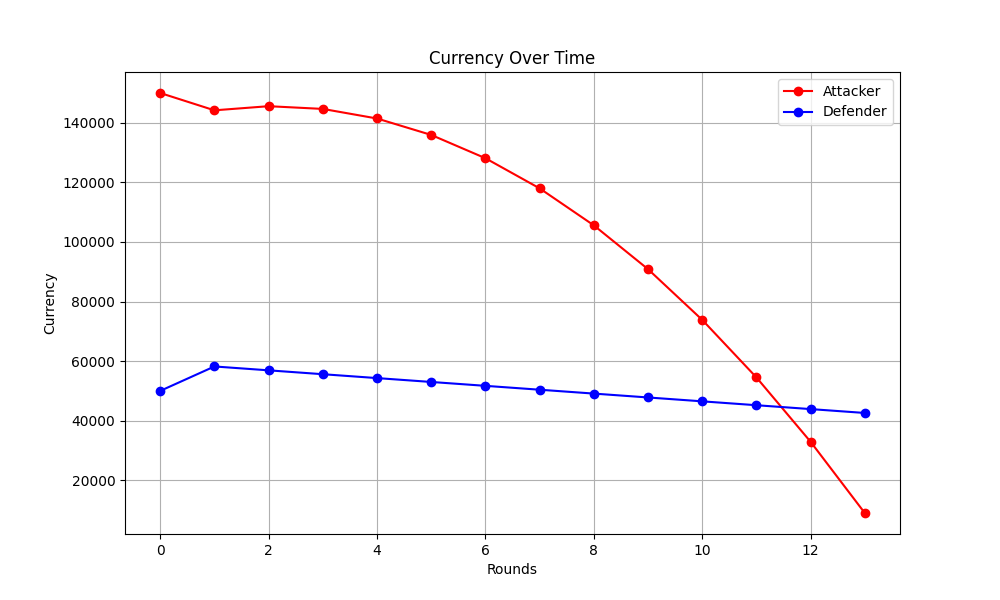
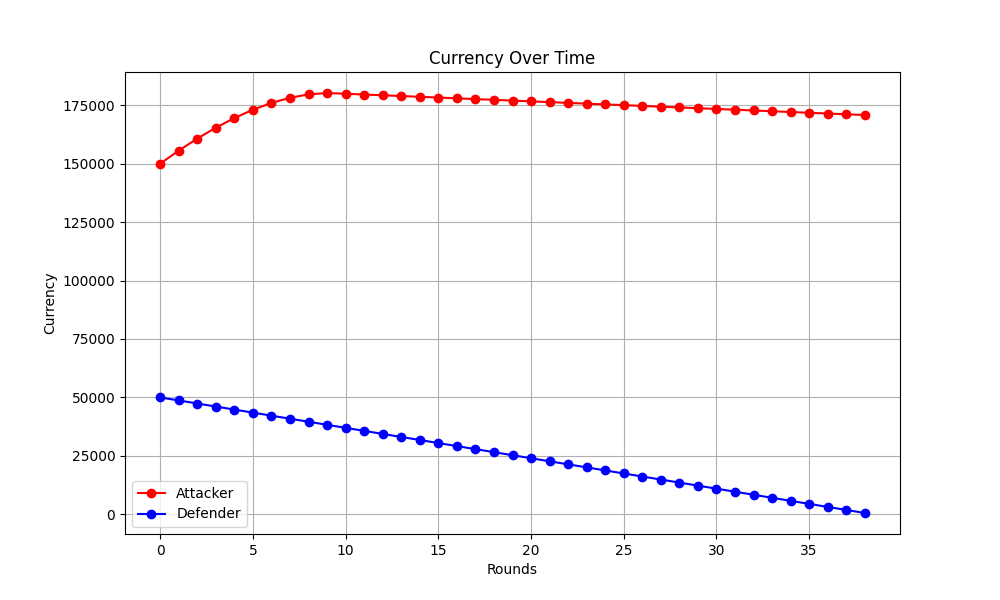
added energy to attacker class and predict_revenue to balance the odds more..

diff --git a/game.py b/game.py
@@ -25,9 +25,6 @@ class Game(Attacker, Defender, Shop):
         self.data_firewall_type = []
         self.rounds = 0
 
-        
-
-
     def __str__(self): 
         return "Game "+str(self.attacker.currency)+" "+str(self.defender.currency)+" "+str(self.rounds)+" "+str(self.server_yield)+" "+str(self.good_transmission_load)
 
@@ -91,7 +88,9 @@ class Game(Attacker, Defender, Shop):
             print("Round Start Defender Currency", self.defender.currency)
             print("-----------------------")
         
-        attacker_profit = min(self.defender.predict_revenue(), self.attacker.predict_revenue(self.defender.firewall_type)) - self.attacker.predict_expenses(self.shop)
+        # incorporate good traffic: only a fraction of bandwidth used for intrusion
+        intrusion_traffic = self.attacker.predict_revenue(self.defender.firewall_type) * (1 - self.good_traffic)
+        attacker_profit = min(self.defender.predict_revenue(), intrusion_traffic) - self.attacker.predict_expenses(self.shop)
         defender_profit = max(self.defender.predict_revenue() - self.attacker.predict_revenue(self.defender.firewall_type), 0) - self.defender.predict_expenses(self.shop)
         
         if not auto_mode:
@@ -108,7 +107,12 @@ class Game(Attacker, Defender, Shop):
             print("Attack Memory", self.attacker.profit_memory)
             print("Defender Memory", self.defender.profit_memory)
             
-        self.attacker.update_attacker(self.shop, 100,100)
+        # Only reinvest if attacker profit is positive
+        if attacker_profit > 0:
+            # reinvest a fraction of current resources into bots and bandwidth
+            bot_change = max(1, int(self.attacker.num_bots * 0.1))
+            band_change = max(1, int(self.attacker.total_bot_band * 0.1))
+            self.attacker.update_attacker(self.shop, bot_change, band_change)
         
         if not auto_mode:
             print("-----------------------")

diff --git a/attacker.py b/attacker.py
@@ -21,7 +21,7 @@ class Attacker:
 
         self.num_bots = num_bots
         self.total_bot_band = bot_band
-        # self.energy = energy
+        self.energy = energy
         num_bots = int(num_bots)
 
         self.server_memory = []
@@ -54,7 +54,7 @@ class Attacker:
         return sum(self.server_memory) / len(self.server_memory)
 
     def predict_revenue(self, firewall_type):
-        return self.total_bot_band * self.num_bots * firewall_type
+        return self.total_bot_band * self.num_bots * self.energy * firewall_type
 
     def predict_firewall_type(self):
         return 
